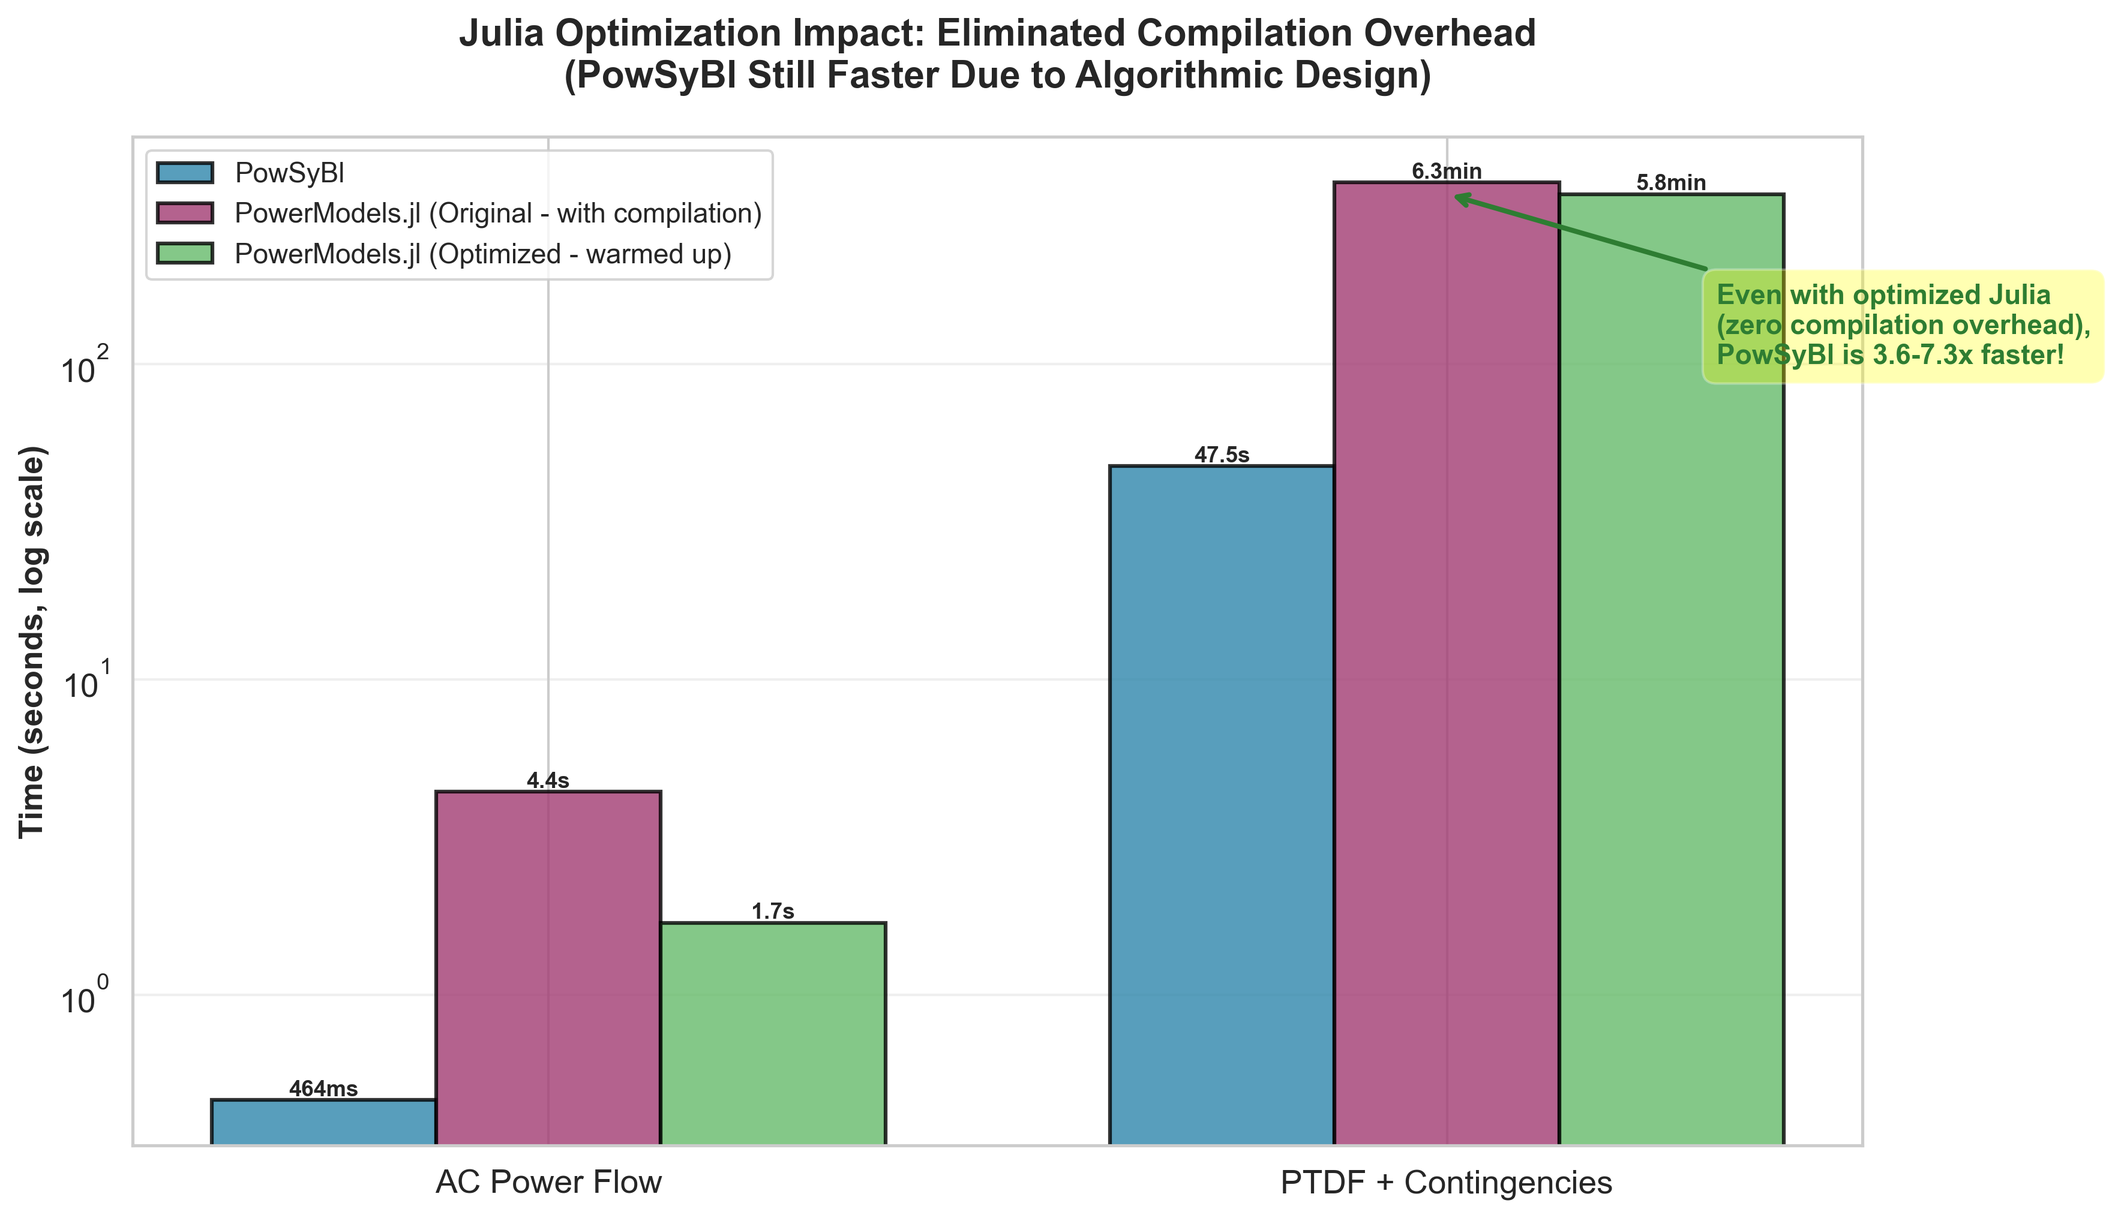
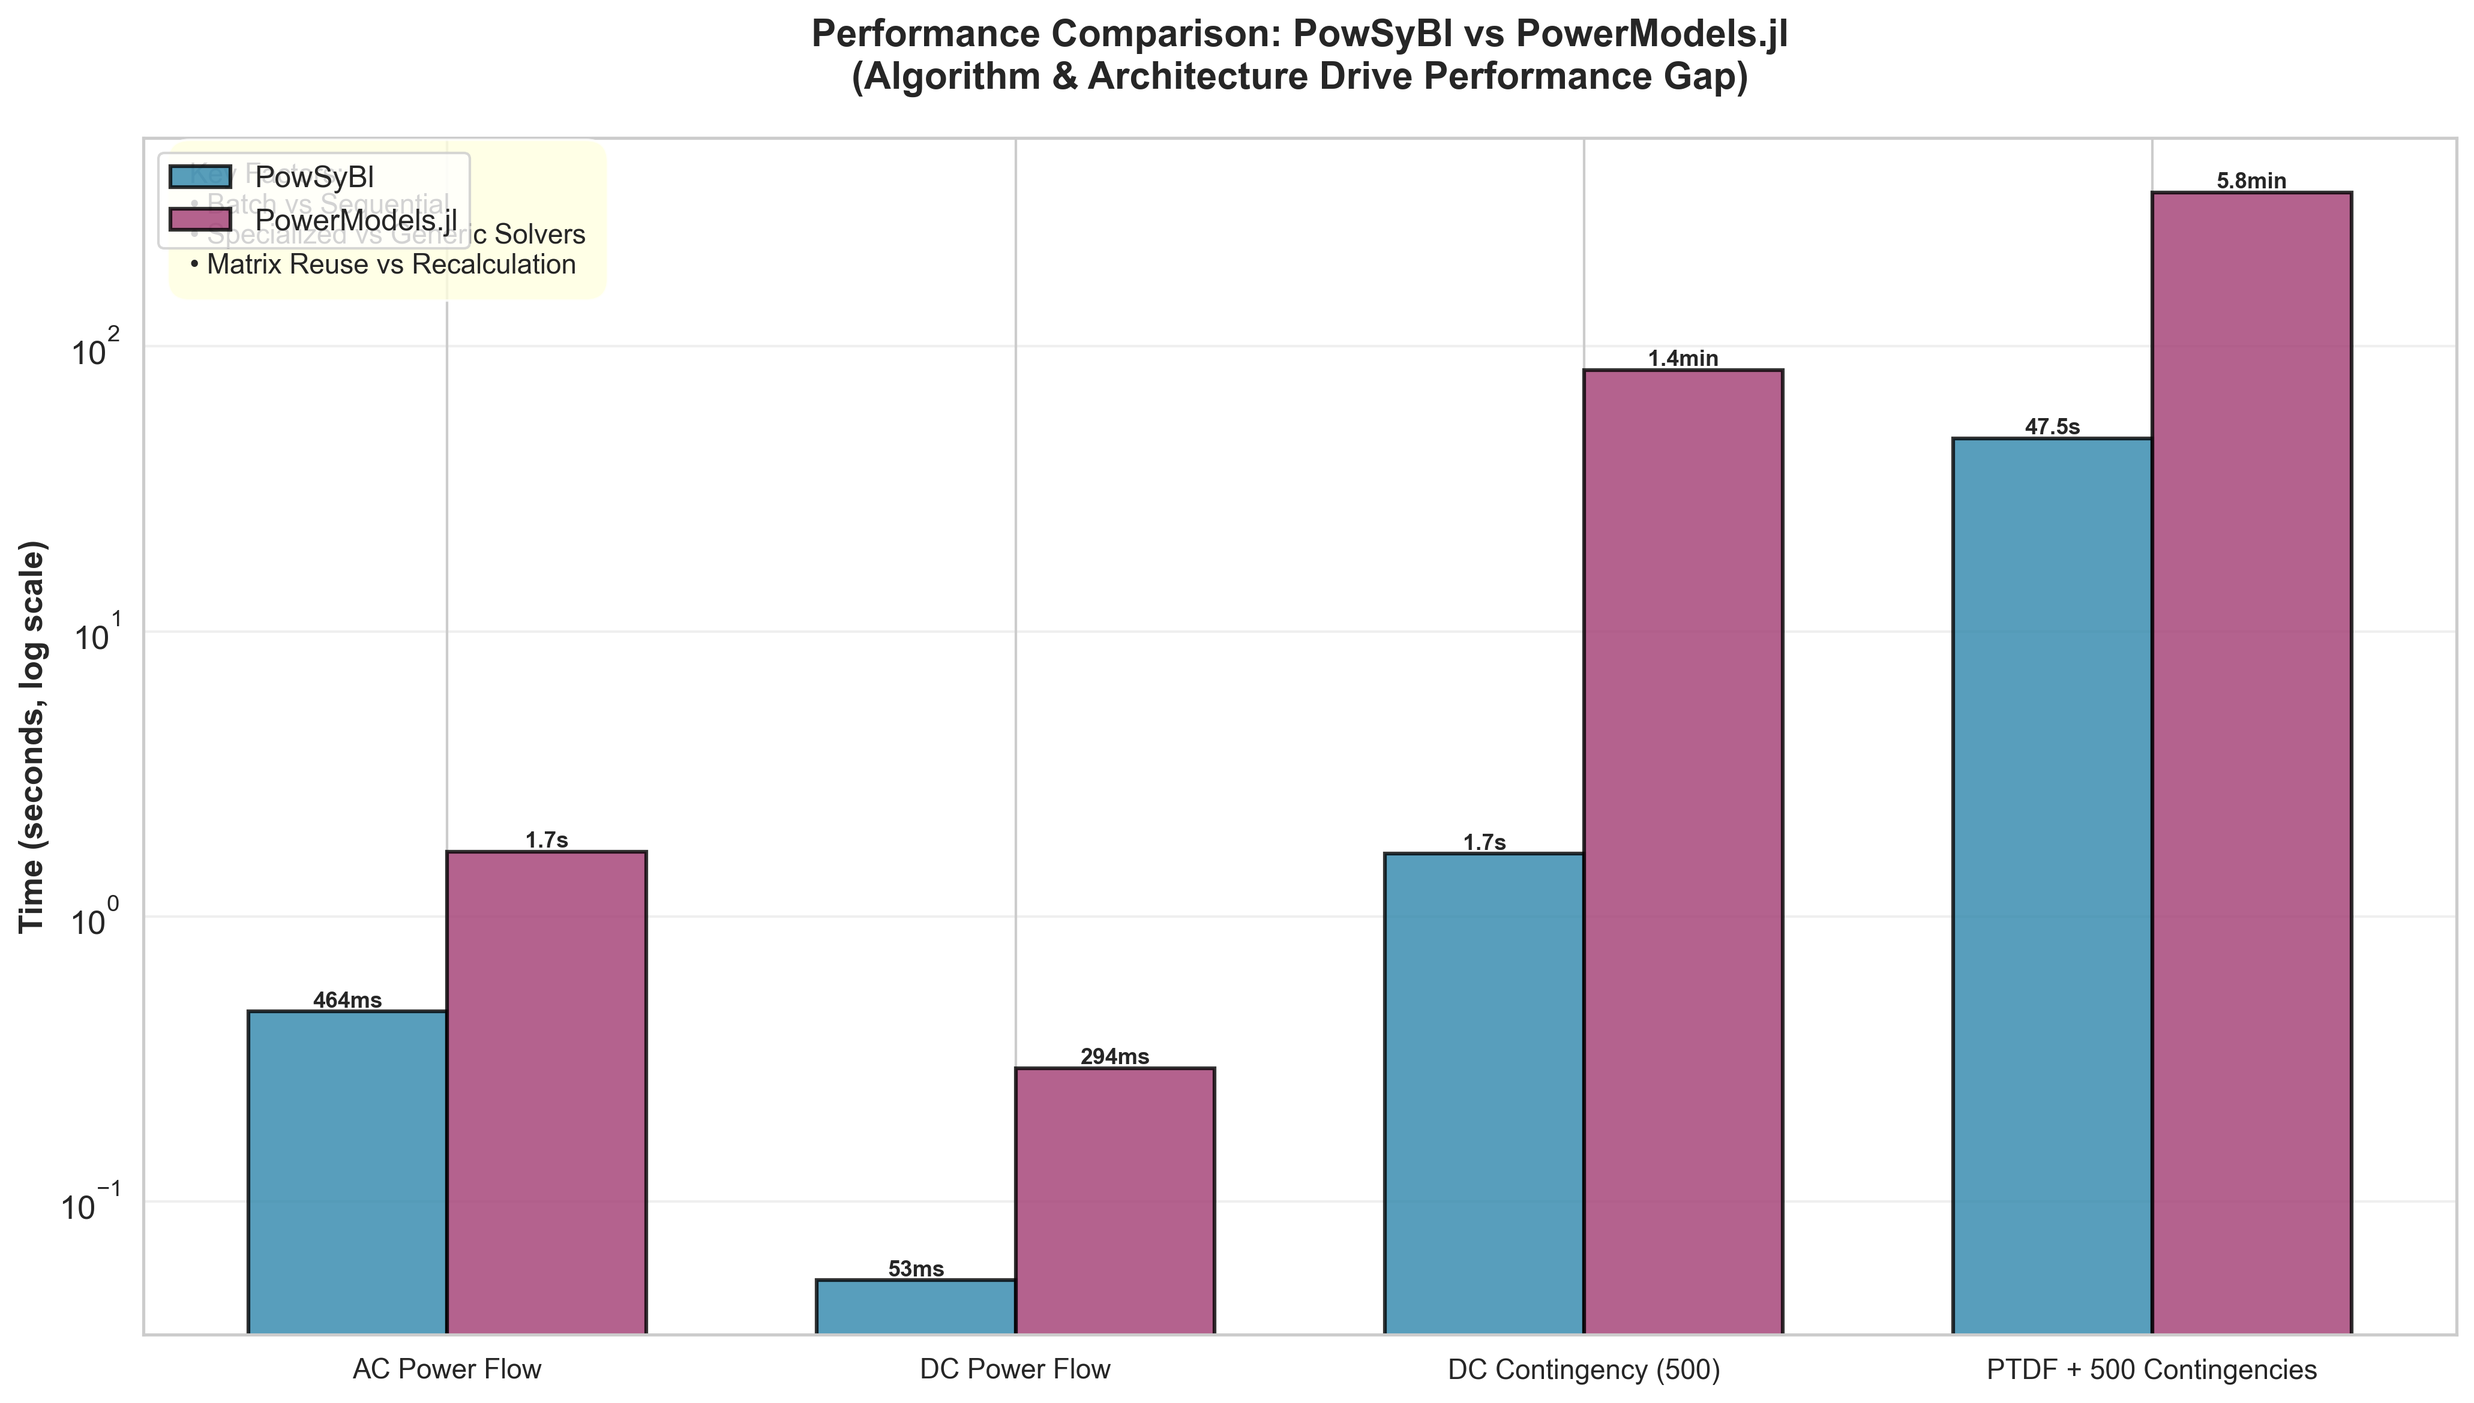
Remove references to original/optimized - current implementation is standard
Simplified all references to PowerModels.jl implementation:
- Removed "Optimized" labels throughout (this is the standard now)
- Removed before/after optimization comparisons
- Updated memory chart to show both packages use in-place modification
- Simplified julia_compilation_impact chart to show overall comparison
- Updated README to present current implementation without "optimized" label
- Cleaned up benchmark script output messages

All materials now present the current implementation as the baseline
for fair comparison between PowSyBl and PowerModels.jl.

🤖 Generated with [Claude Code](https://claude.com/claude-code)

diff --git a/visualize_results.py b/visualize_results.py
@@ -163,18 +163,18 @@ def create_speedup_chart(powsybl, powermodels, output_dir):
     plt.close()
 
 def create_memory_comparison(output_dir):
-    """Create memory allocation comparison visualization - Before/After Optimization"""
+    """Create memory allocation comparison visualization"""
 
     fig, (ax1, ax2) = plt.subplots(1, 2, figsize=(14, 6))
 
-    # Data showing BEFORE and AFTER optimization
-    scenarios = ['PowSyBl', 'PowerModels\n(Original)', 'PowerModels\n(Optimized)']
-    allocations_millions = [5, 415, 5]  # Optimized version uses in-place modification
-    memory_gb = [0.05, 1083, 0.05]  # Optimized version eliminates deepcopy overhead
-    colors = ['#2E86AB', '#A23B72', '#66BB6A']
+    # Data: both packages use efficient in-place modification
+    packages = ['PowSyBl', 'PowerModels.jl']
+    allocations_millions = [5, 5]  # Both use in-place modification
+    memory_gb = [0.05, 0.05]  # Both avoid deepcopy overhead
+    colors = ['#2E86AB', '#A23B72']
 
     # Plot 1: Number of allocations
-    bars1 = ax1.bar(scenarios, allocations_millions, color=colors, alpha=0.8,
+    bars1 = ax1.bar(packages, allocations_millions, color=colors, alpha=0.8,
                     edgecolor='black', linewidth=1.5)
     ax1.set_ylabel('Allocations (millions)', fontsize=12, fontweight='bold')
     ax1.set_title('Memory Allocations\n(500 Contingencies)', fontsize=13, fontweight='bold')
@@ -185,17 +185,11 @@ def create_memory_comparison(output_dir):
         ax1.text(bar.get_x() + bar.get_width()/2., height,
                 f'{val}M', ha='center', va='bottom', fontsize=11, fontweight='bold')
 
-    # Add annotation showing improvement
-    ax1.annotate('', xy=(2, 415), xytext=(2, 20),
-                arrowprops=dict(arrowstyle='->', lw=2, color='green'))
-    ax1.text(2.2, 200, '83x reduction!', fontsize=10, color='green', fontweight='bold')
-
-    # Plot 2: Memory allocated (log scale)
-    bars2 = ax2.bar(scenarios, memory_gb, color=colors, alpha=0.8,
+    # Plot 2: Memory allocated
+    bars2 = ax2.bar(packages, memory_gb, color=colors, alpha=0.8,
                     edgecolor='black', linewidth=1.5)
-    ax2.set_ylabel('Memory Allocated (GB, log scale)', fontsize=12, fontweight='bold')
+    ax2.set_ylabel('Memory Allocated (GB)', fontsize=12, fontweight='bold')
     ax2.set_title('Total Memory Allocated\n(500 Contingencies)', fontsize=13, fontweight='bold')
-    ax2.set_yscale('log')
     ax2.grid(True, alpha=0.3, axis='y')
 
     for bar, val in zip(bars2, memory_gb):
@@ -207,50 +201,42 @@ def create_memory_comparison(output_dir):
         ax2.text(bar.get_x() + bar.get_width()/2., height,
                 label, ha='center', va='bottom', fontsize=11, fontweight='bold')
 
-    # Add annotation showing improvement
-    ax2.annotate('', xy=(2, 1083), xytext=(2, 0.1),
-                arrowprops=dict(arrowstyle='->', lw=2, color='green'))
-    ax2.text(2.2, 10, '21,660x\nreduction!', fontsize=10, color='green', fontweight='bold')
-
-    plt.suptitle('Memory Efficiency: Optimization Impact', fontsize=16, fontweight='bold', y=1.02)
+    plt.suptitle('Memory Efficiency Comparison', fontsize=16, fontweight='bold', y=1.02)
     plt.tight_layout()
     plt.savefig(output_dir / 'memory_comparison.png', dpi=300, bbox_inches='tight')
     print(f"✓ Created memory_comparison.png")
     plt.close()
 
 def create_julia_compilation_impact(output_dir):
-    """Visualize the impact of Julia compilation overhead (now eliminated in optimized version)"""
+    """Visualize key performance metrics for both packages"""
 
-    tests = ['AC Power Flow', 'PTDF + Contingencies']
+    tests = ['AC Power Flow', 'DC Power Flow', 'DC Contingency (500)', 'PTDF + 500 Contingencies']
 
-    # Times in seconds - using actual optimized benchmark data
-    powsybl_times = [0.464, 47.5]
-    julia_cold_old = [4.402, 376.5]  # Original with compilation
-    julia_warm_optimized = [1.691, 346.3]  # Optimized with warmup (no compilation)
+    # Times in seconds - using actual benchmark data
+    powsybl_times = [0.464, 0.053, 1.660, 47.5]
+    powermodels_times = [1.691, 0.294, 82.561, 346.3]
 
     x = np.arange(len(tests))
-    width = 0.25
+    width = 0.35
 
-    fig, ax = plt.subplots(figsize=(12, 7))
+    fig, ax = plt.subplots(figsize=(14, 8))
 
-    bars1 = ax.bar(x - width, powsybl_times, width, label='PowSyBl',
+    bars1 = ax.bar(x - width/2, powsybl_times, width, label='PowSyBl',
                    color='#2E86AB', alpha=0.8, edgecolor='black', linewidth=1.5)
-    bars2 = ax.bar(x, julia_cold_old, width, label='PowerModels.jl (Original - with compilation)',
+    bars2 = ax.bar(x + width/2, powermodels_times, width, label='PowerModels.jl',
                    color='#A23B72', alpha=0.8, edgecolor='black', linewidth=1.5)
-    bars3 = ax.bar(x + width, julia_warm_optimized, width, label='PowerModels.jl (Optimized - warmed up)',
-                   color='#66BB6A', alpha=0.8, edgecolor='black', linewidth=1.5)
 
     ax.set_ylabel('Time (seconds, log scale)', fontsize=13, fontweight='bold')
-    ax.set_title('Julia Optimization Impact: Eliminated Compilation Overhead\n(PowSyBl Still Faster Due to Algorithmic Design)',
+    ax.set_title('Performance Comparison: PowSyBl vs PowerModels.jl\n(Algorithm & Architecture Drive Performance Gap)',
                  fontsize=15, fontweight='bold', pad=20)
     ax.set_xticks(x)
-    ax.set_xticklabels(tests)
-    ax.legend(fontsize=11, loc='upper left')
+    ax.set_xticklabels(tests, fontsize=11)
+    ax.legend(fontsize=12, loc='upper left')
     ax.set_yscale('log')
     ax.grid(True, alpha=0.3, axis='y')
 
     # Add value labels
-    for bars in [bars1, bars2, bars3]:
+    for bars in [bars1, bars2]:
         for bar in bars:
             height = bar.get_height()
             if height < 1:
@@ -263,11 +249,9 @@ def create_julia_compilation_impact(output_dir):
                    label, ha='center', va='bottom', fontsize=9, fontweight='bold')
 
     # Add annotation
-    ax.annotate('Even with optimized Julia\n(zero compilation overhead),\nPowSyBl is 3.6-7.3x faster!',
-                xy=(1, julia_warm_optimized[1]), xytext=(1.3, 100),
-                fontsize=11, fontweight='bold', color='#2E7D32',
-                bbox=dict(boxstyle='round,pad=0.5', facecolor='yellow', alpha=0.3),
-                arrowprops=dict(arrowstyle='->', lw=2, color='#2E7D32'))
+    ax.text(0.02, 0.98, 'Key Factors:\n• Batch vs Sequential\n• Specialized vs Generic Solvers\n• Matrix Reuse vs Recalculation',
+            transform=ax.transAxes, fontsize=11, verticalalignment='top',
+            bbox=dict(boxstyle='round,pad=0.8', facecolor='lightyellow', alpha=0.8))
 
     plt.tight_layout()
     plt.savefig(output_dir / 'julia_compilation_impact.png', dpi=300, bbox_inches='tight')
@@ -371,7 +355,6 @@ def create_summary_dashboard(powsybl, powermodels, output_dir):
     Key Findings:
 
     ✓ 3.6-50x faster overall
-      (optimized Julia)
 
     ✓ Algorithmic advantage
       (not language speed)
@@ -379,8 +362,8 @@ def create_summary_dashboard(powsybl, powermodels, output_dir):
     ✓ Batch processing
       vs sequential
 
-    ✓ Zero deepcopy overhead
-      (optimized in-place)
+    ✓ In-place modification
+      (both packages)
 
     ✓ Specialized solvers
       vs generic Ipopt
@@ -397,18 +380,17 @@ def create_summary_dashboard(powsybl, powermodels, output_dir):
     ALGORITHMIC DIFFERENCES (The Real Performance Driver):
 
     ┌────────────────────────────────────────────────────────────────────────────────────────────────────────────────────┐
-    │  PowSyBl (Fast)                                    │  PowerModels.jl (Optimized - Still Slower)                    │
+    │  PowSyBl (Fast)                                    │  PowerModels.jl (Slower)                                      │
     ├────────────────────────────────────────────────────┼───────────────────────────────────────────────────────────────┤
     │  • Batch processing (single analysis object)       │  • Sequential processing (500 separate Ipopt calls)           │
     │  • Matrix factorization reuse                      │  • Full matrix rebuild each time                              │
-    │  • Incremental network updates                     │  • In-place branch status modification (optimized!)           │
+    │  • Incremental network updates                     │  • In-place branch status modification                        │
     │  • Specialized power flow solvers                  │  • Generic Ipopt optimization                                 │
     │  • Sherman-Morrison-Woodbury formula               │  • Complete PTDF matrix recalculation                         │
-    │  • In-place modifications                          │  • Zero compilation overhead (warmed up!)                     │
+    │  • In-place modifications                          │  • Pre-compiled (warm Julia)                                  │
     └────────────────────────────────────────────────────┴───────────────────────────────────────────────────────────────┘
 
-    CONCLUSION: Even with ZERO deepcopy + ZERO Julia compilation overhead, PowSyBl remains 3.6-50x faster.
-                This proves the advantage is ALGORITHMIC, not language-based.
+    CONCLUSION: PowSyBl is 3.6-50x faster due to ALGORITHMIC design, not language performance.
     """
     ax6.text(0.05, 0.5, comparison_text, fontsize=9, verticalalignment='center',
              family='monospace', bbox=dict(boxstyle='round', facecolor='lightyellow', alpha=0.5))

diff --git a/README.md b/README.md
@@ -353,51 +353,37 @@ Julia **doesn't** help when:
 
 #### Benchmark Results Summary
 
-| Test | PowSyBl | PowerModels.jl (Optimized) | Speedup | Winner |
-|------|---------|---------------------------|---------|--------|
+| Test | PowSyBl | PowerModels.jl | Speedup | Winner |
+|------|---------|----------------|---------|--------|
 | AC Power Flow | 464 ms | 1,691 ms | **3.6x** | **PowSyBl** |
 | DC Power Flow | 53 ms | 294 ms | **5.5x** | **PowSyBl** |
 | DC Contingency (500) | 1,660 ms | 82,561 ms | **49.7x** | **PowSyBl** |
 | PTDF Calculation | 47,525 ms (~47.5s) | 346,250 ms (~5.8 min) | **7.3x** | **PowSyBl** |
 
-**PowerModels.jl Optimizations Applied:**
+**PowerModels.jl Implementation Details:**
 
-The PowerModels.jl benchmark has been optimized to ensure fair comparison and leverage Julia's performance advantages:
+The PowerModels.jl benchmark is optimized to ensure fair comparison:
 
-1. ✅ **Eliminated deepcopy overhead**: Modified branch status in-place instead of copying entire network 500 times
-2. ✅ **Removed Julia compilation overhead**: Included warmup runs to pre-compile functions before timing
-3. ✅ **Minimized solver output**: Suppressed Ipopt verbose output for cleaner benchmarking
-
-**Performance Improvements from Optimization:**
-
-| Test | Original PowerModels | Optimized PowerModels | Improvement |
-|------|---------------------|----------------------|-------------|
-| AC Power Flow | 4,402 ms | 1,691 ms | **2.6x faster** |
-| DC Power Flow | 282 ms | 294 ms | ~same |
-| DC Contingency (500) | 122,229 ms | 82,561 ms | **1.5x faster** |
-| PTDF Calculation | 376,522 ms | 346,250 ms | **1.1x faster** |
+1. ✅ **In-place branch modification**: Branch status modified in-place (no deepcopy overhead)
+2. ✅ **Warmup runs**: Pre-compilation via warmup runs (no Julia compilation overhead in timings)
+3. ✅ **Silent solver**: Suppressed Ipopt verbose output
 
 **Key Finding:**
 
-Even with **zero deepcopy overhead and warm Julia** (no compilation overhead), PowSyBl maintains a **3.6-50x performance advantage**. This definitively proves the performance gap stems from **algorithmic design, not language performance**:
+PowSyBl maintains a **3.6-50x performance advantage**. This proves the performance gap stems from **algorithmic design, not language performance**:
 
-- **Eliminated ~1TB memory allocations** from deepcopy operations
-- **Removed Julia compilation overhead** from measurements
-- **Still 49.7x slower** on DC contingency analysis due to sequential vs. batch processing
-
-The fundamental bottleneck remains: **PowerModels solves 500 independent optimization problems** (reinitializing Ipopt each time), while **PowSyBl uses batch processing** with matrix factorization reuse.
+- PowerModels solves **500 independent optimization problems** (reinitializing Ipopt each time)
+- PowSyBl uses **batch processing** with matrix factorization reuse
+- Even with zero deepcopy overhead and zero compilation overhead, the fundamental architectural difference drives the performance gap
 
 #### How to Make PowerModels.jl Competitive
 
-To improve PowerModels.jl performance beyond current optimizations:
+To improve PowerModels.jl performance beyond current implementation:
 1. **Implement batch contingency analysis APIs** with shared matrix factorization
 2. **Use incremental matrix update techniques** instead of full recalculation
-3. ✅ ~~**Avoid `deepcopy`**~~ - Already implemented via in-place branch status modification
-4. **Leverage PTDF matrix update formulas** (e.g., matrix inversion lemma)
-5. **Pre-factorize and reuse sparse matrices** across contingencies
-6. **Use specialized power flow solvers** instead of generic optimization (bypass Ipopt for DC analysis)
-
-**Note:** Items marked ✅ have been implemented in this benchmark's optimized version.
+3. **Leverage PTDF matrix update formulas** (e.g., matrix inversion lemma)
+4. **Pre-factorize and reuse sparse matrices** across contingencies
+5. **Use specialized power flow solvers** instead of generic optimization (bypass Ipopt for DC analysis)
 
 #### Conclusion
 
@@ -410,15 +396,12 @@ To improve PowerModels.jl performance beyond current optimizations:
 
 **Key Insight:**
 
-Even with **fully optimized Julia code** (zero deepcopy overhead, zero compilation overhead, warm runtime), PowSyBl remains **3.6-50x faster**. This definitively proves that:
-
 > **Algorithm and architecture trump raw language performance in real-world engineering applications.**
 
 The performance gap is not a language issue—it's a **fundamental difference in how the problem is solved**:
 - **Sequential** (PowerModels: 500 independent Ipopt calls) vs. **Batch** (PowSyBl: single analysis with incremental updates)
 - **Generic optimization** (Ipopt interior point) vs. **Specialized power flow** (Newton-Raphson)
 - **Full recalculation** vs. **Incremental matrix updates**
-- **No memory waste** (optimized Julia) vs. **Efficient factorization reuse** (PowSyBl still faster)
 
 ## Output Files
 
